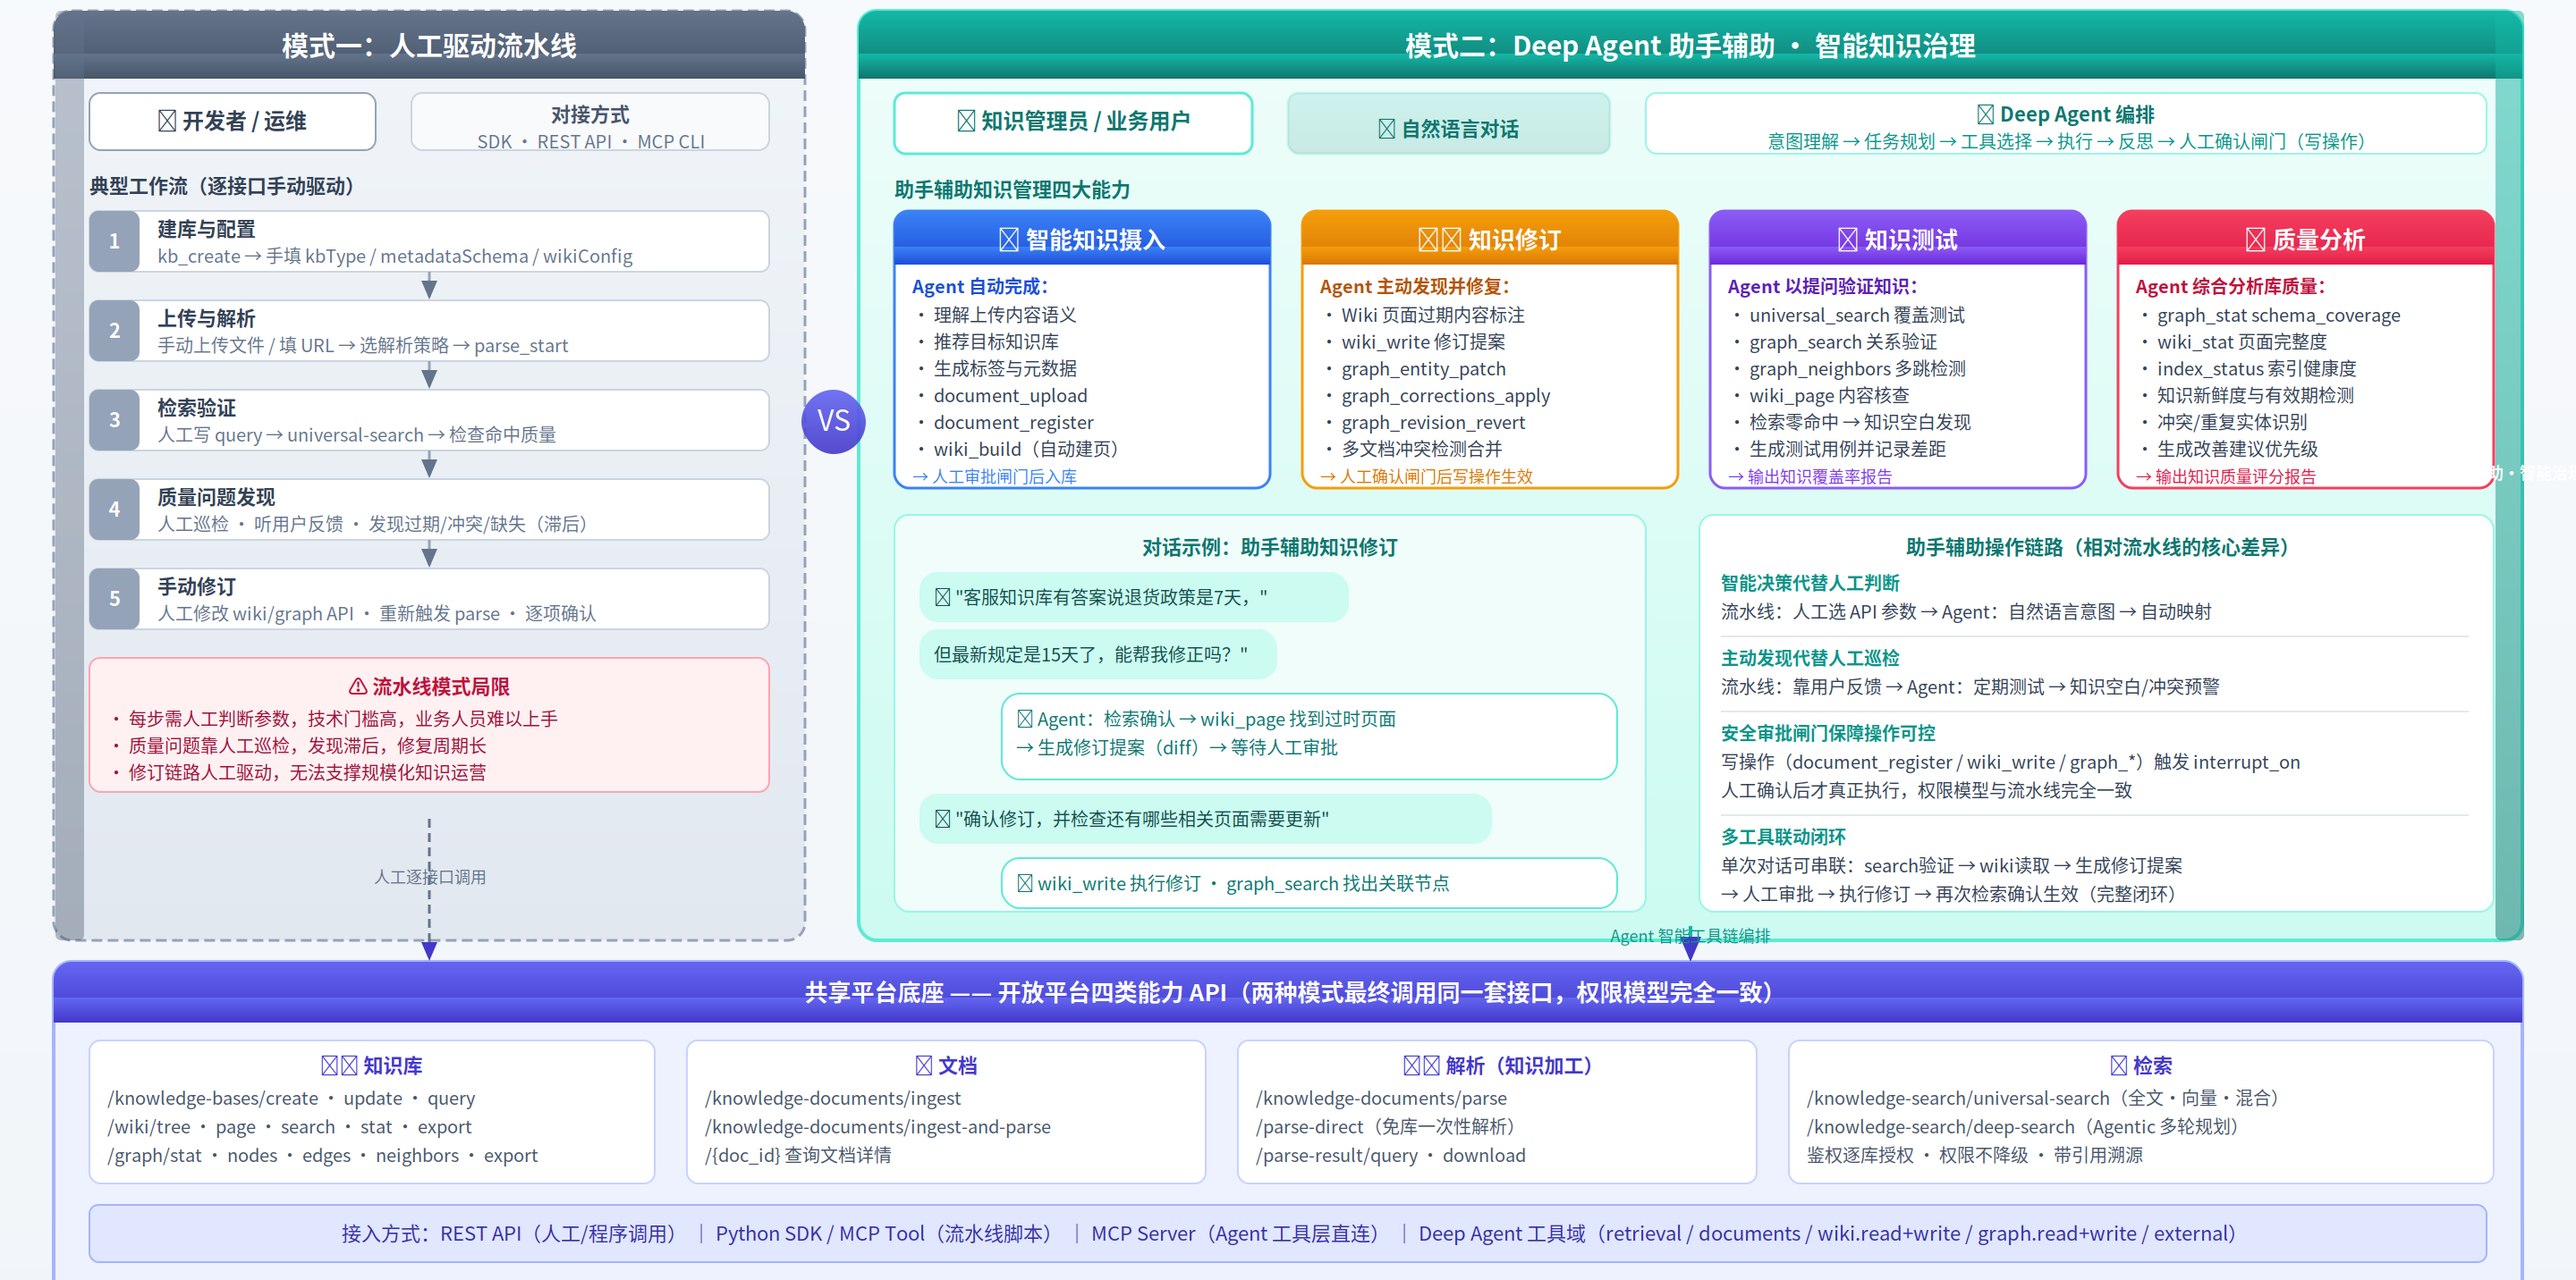
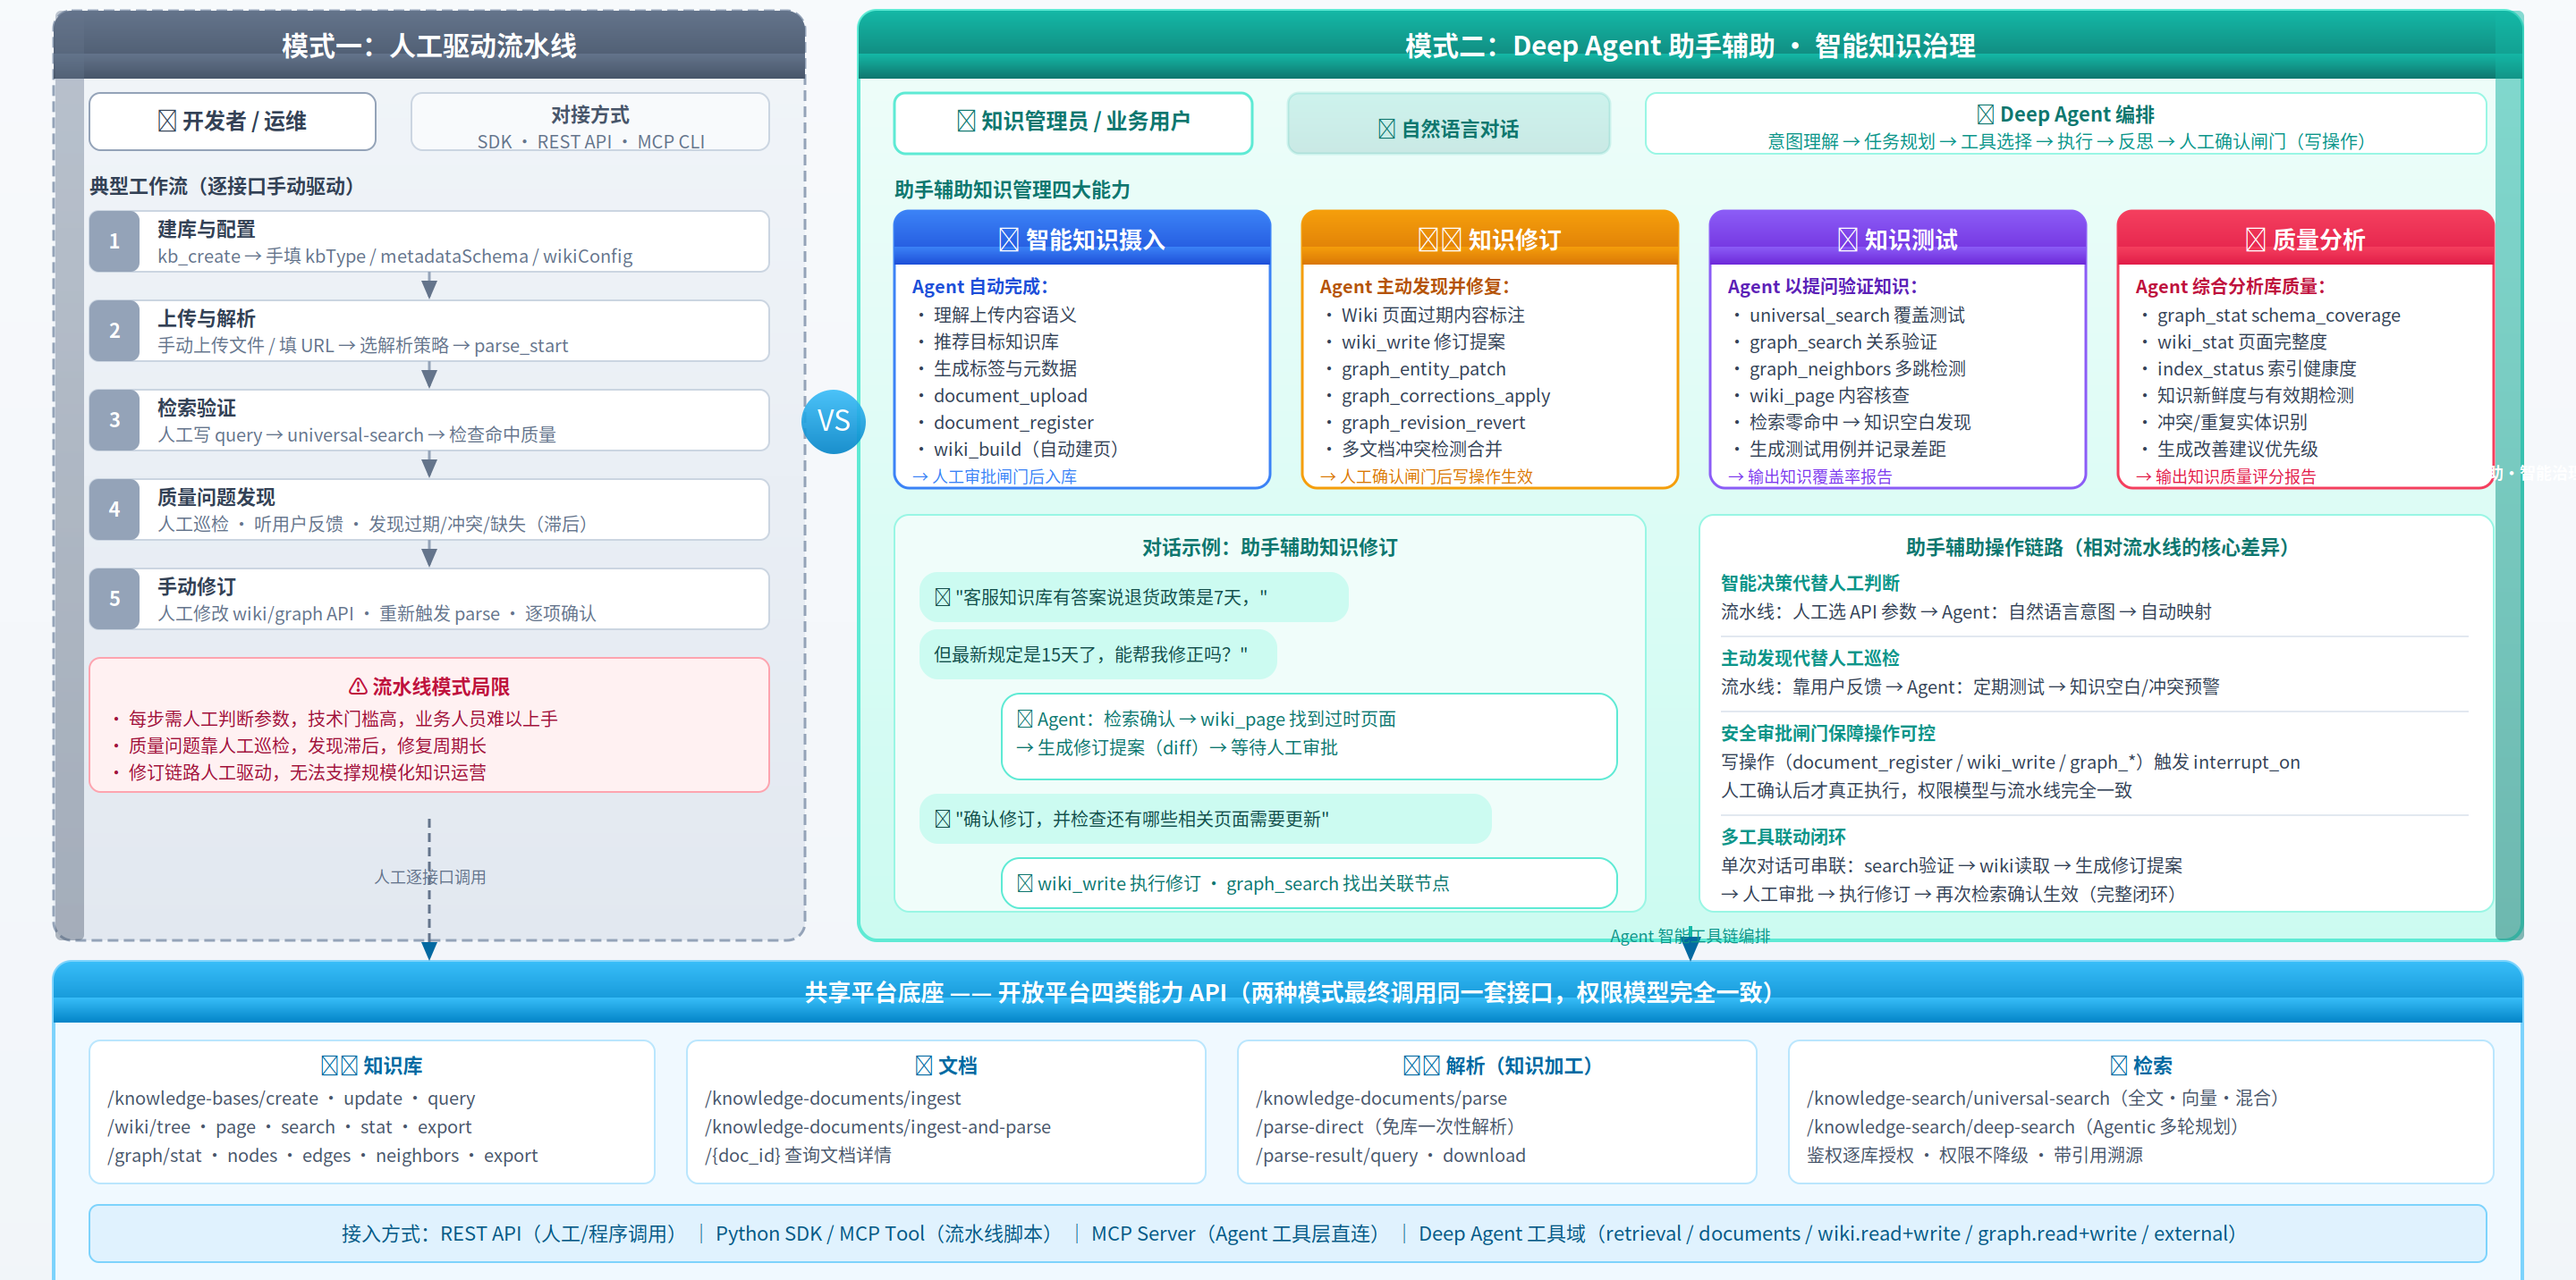
docs: 知识管理双模式图底部平台底座改为天蓝配色

diff --git a/docs/worklog.md b/docs/worklog.md
@@ -1481,3 +1481,4 @@
 
 - 基于 docs/images/智能知识库自动与人工结合评测流程图_v1.0.svg 新建 v1.1：删除顶部主标题「自动评测 × 人工结合 · 评测执行流程」与其下描述行、删除底部「注：自动评测全量高频运行…」脚注；内容坐标不动，viewBox 由 `0 0 1380 780` 改 `0 46 1380 720` 裁掉顶部标题留白（上下各留约 44px）。v1.0 保留不动。
 - XML 校验 OK；临时副本注入 Noto Sans CJK SC 后 cairosvg 2x 渲染 v1.1.png（2760×1440），目检无豆腐块、无溢出、无重叠，右侧竖排「回哺迭代·形成闭环」完整。仅配图改动，无代码改动，跳过 pytest 与 Claude 只读审查。
+- 续写（同日）：按用户要求把底部「共享平台底座」蓝色框调淡为天蓝——`gPlatform` 渐变 `#6366f1→#4338ca` 改 `#38bdf8→#0284c7`（标题条白字仍可读，同时影响中间 VS 圆徽为同色系），底座容器 `#eef2ff/#a5b4fc` → `#f0f9ff/#7dd3fc`，四张能力卡描边 `#c7d2fe` → `#bae6fd`、卡标题 `#4338ca` → `#0369a1`，接入方式条 `#e0e7ff/#a5b4fc/#3730a3` → `#e0f2fe/#7dd3fc/#075985`，箭头 marker `aInd` `#4338ca` → `#0369a1`，注释「靛蓝」改「天蓝」；grep 确认图内无 6366f1/4f46e5/818cf8/eef2ff/3730a3 残留。XML 校验 OK，2x 重渲染同名 PNG，目检与右侧青绿模式区色系更协调、白字对比可读。
